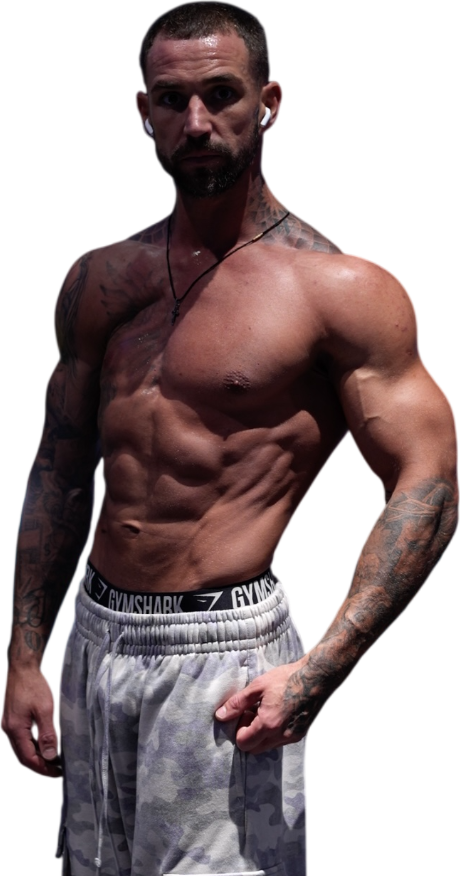
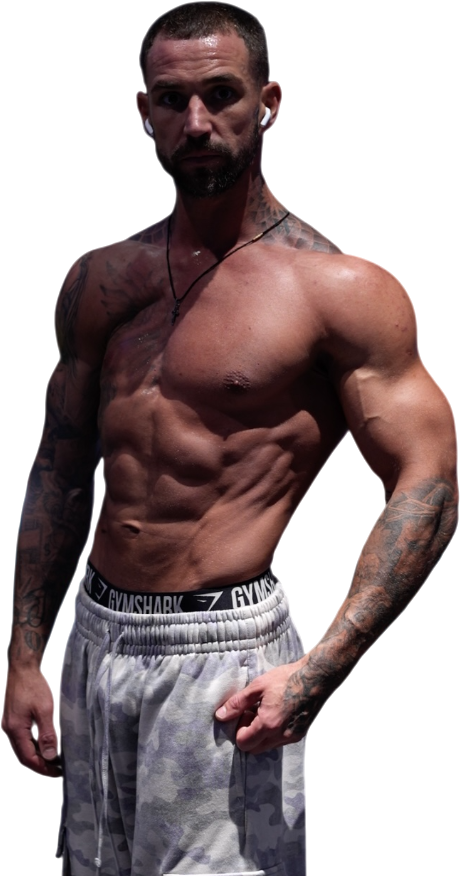
Шапка: убрана тень и мусорная полупрозрачность вокруг фигуры

Changed region(s): [[0.1826, 0.5856, 0.213, 0.6473], [0.213, 0.524, 0.2435, 0.5548]]

diff --git a/index.html b/index.html
@@ -23,7 +23,7 @@ body{font-family:'Montserrat',Helvetica,Arial,sans-serif;background:var(--paper)
 .hero h1{font-size:1.8rem;line-height:1.02;font-weight:900;text-transform:uppercase;letter-spacing:-.01em;text-wrap:balance}
 .hero h1 span{color:#D9D7B8}
 .hero p{margin-top:12px;color:rgba(255,255,255,.82);font-size:.92rem;line-height:1.5;max-width:22ch}
-.hero .ph{position:absolute;right:4px;bottom:0;height:70%;width:auto;max-width:none;z-index:1;filter:drop-shadow(0 10px 20px rgba(0,0,0,.4))}
+.hero .ph{position:absolute;right:4px;bottom:0;height:70%;width:auto;max-width:none;z-index:1}
 @media (min-width:520px){.hero .in{min-height:360px}.hero .txt{width:58%;padding-block:48px 56px}.hero h1{font-size:2.5rem}.hero p{font-size:1rem;max-width:30ch}.hero .ph{right:16px}}
 .wrap{max-width:640px;margin:0 auto;padding-inline:16px;padding-block:18px 40px;position:relative}
 .card{background:var(--white);border-radius:18px;box-shadow:0 10px 30px rgba(42,44,48,.10),0 1px 2px rgba(42,44,48,.06);overflow:hidden}
